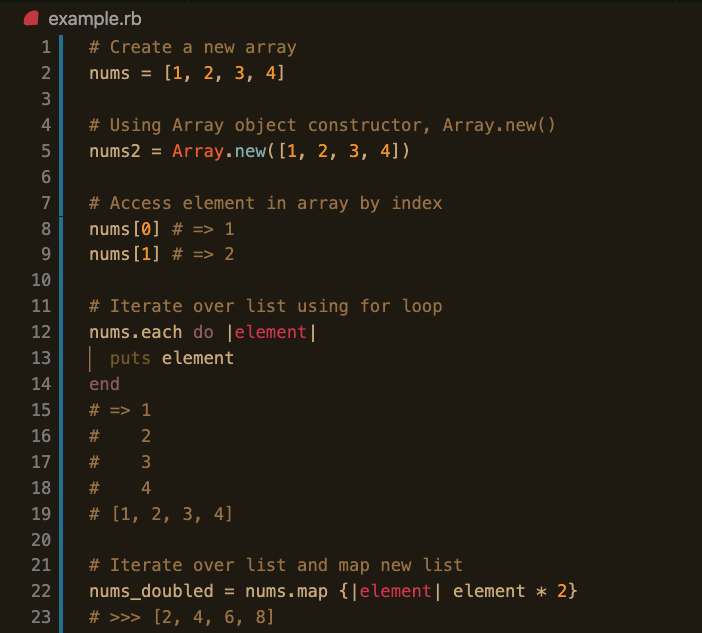
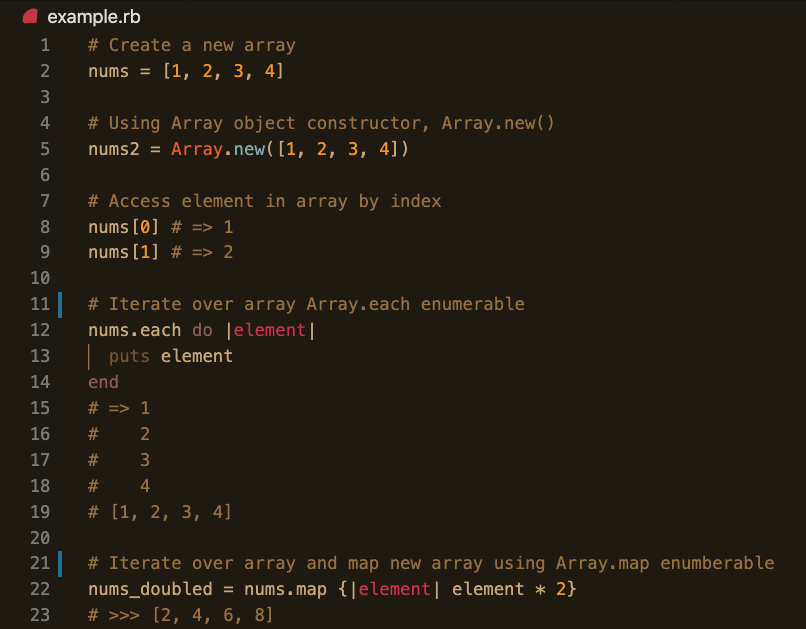
working

Changed region(s): [[0.0299, 0.0, 0.9573, 1.0], [0.2692, 0.7854, 0.3291, 0.8458]]

diff --git a/example.rb b/example.rb
@@ -8,7 +8,7 @@ nums2 = Array.new([1, 2, 3, 4])
 nums[0] # => 1
 nums[1] # => 2
 
-# Iterate over list using for loop
+# Iterate over array Array.each enumerable
 nums.each do |element|
   puts element
 end
@@ -18,7 +18,7 @@ end
 #    4
 # [1, 2, 3, 4]
 
-# Iterate over list and map new list 
+# Iterate over array and map new array using Array.map enumberable
 nums_doubled = nums.map {|element| element * 2}
 # >>> [2, 4, 6, 8]
 
